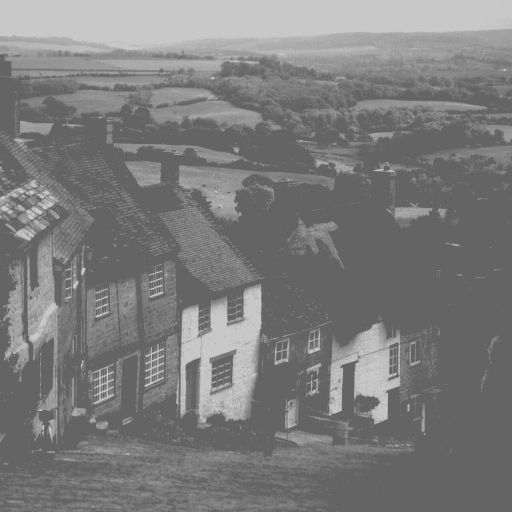
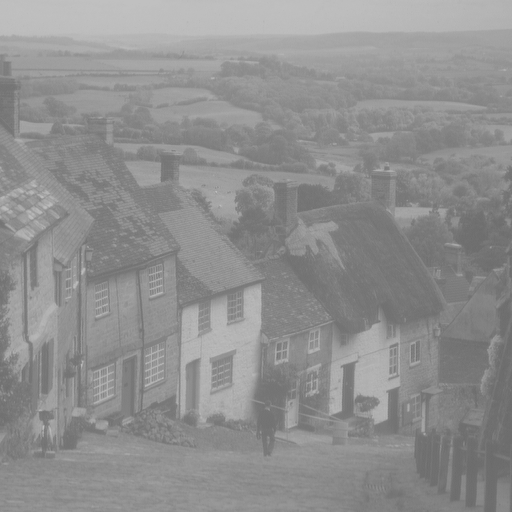
add image intensity

diff --git a/main.py b/main.py
@@ -1,18 +1,8 @@
 # Implementation of matplotlib function
 import numpy as np
 from PIL import Image, ImageShow
-import matplotlib.pyplot as plt
 from skimage import filters, exposure
   
-# image = plt.imread('images/city.png')
-
-# fig, ax = plt.subplots()
-# ax.imshow(image)
-# ax.axis('off')
-  
-# plt.title('matplotlib.pyplot.imread() function Example', fontweight ="bold")
-# plt.show()
-
 # Transformação de intensidade
 def intensity():
   city_image = Image.open('images/city.png')
@@ -21,12 +11,11 @@ def intensity():
   negative_image = Image.fromarray(negative_image)
   negative_image.save('results/intensity01.png')
 
-  # TODO 2
   tranf_img = Image.open('images/city.png')
   tranf_img = np.array(tranf_img)
-  tranf_img[np.where(tranf_img < 100)] = 100
-  tranf_img[np.where(tranf_img > 200)] = 200
-  tranf_img = Image.fromarray(tranf_img)
+  tranf_img = ((tranf_img / 255) * 100) + 100
+  print(tranf_img > 200)
+  tranf_img = Image.fromarray(tranf_img.astype(np.uint8))
   tranf_img.save('results/intensity02.png')
 
   odd_invert = Image.open('images/city.png')
@@ -35,7 +24,6 @@ def intensity():
   odd_invert = Image.fromarray(odd_invert)
   odd_invert.save('results/intensity03.png')
 
- 
   half_img = Image.open('images/city.png')
   half_img = np.array(half_img)
   size = int(len(half_img)/2)
